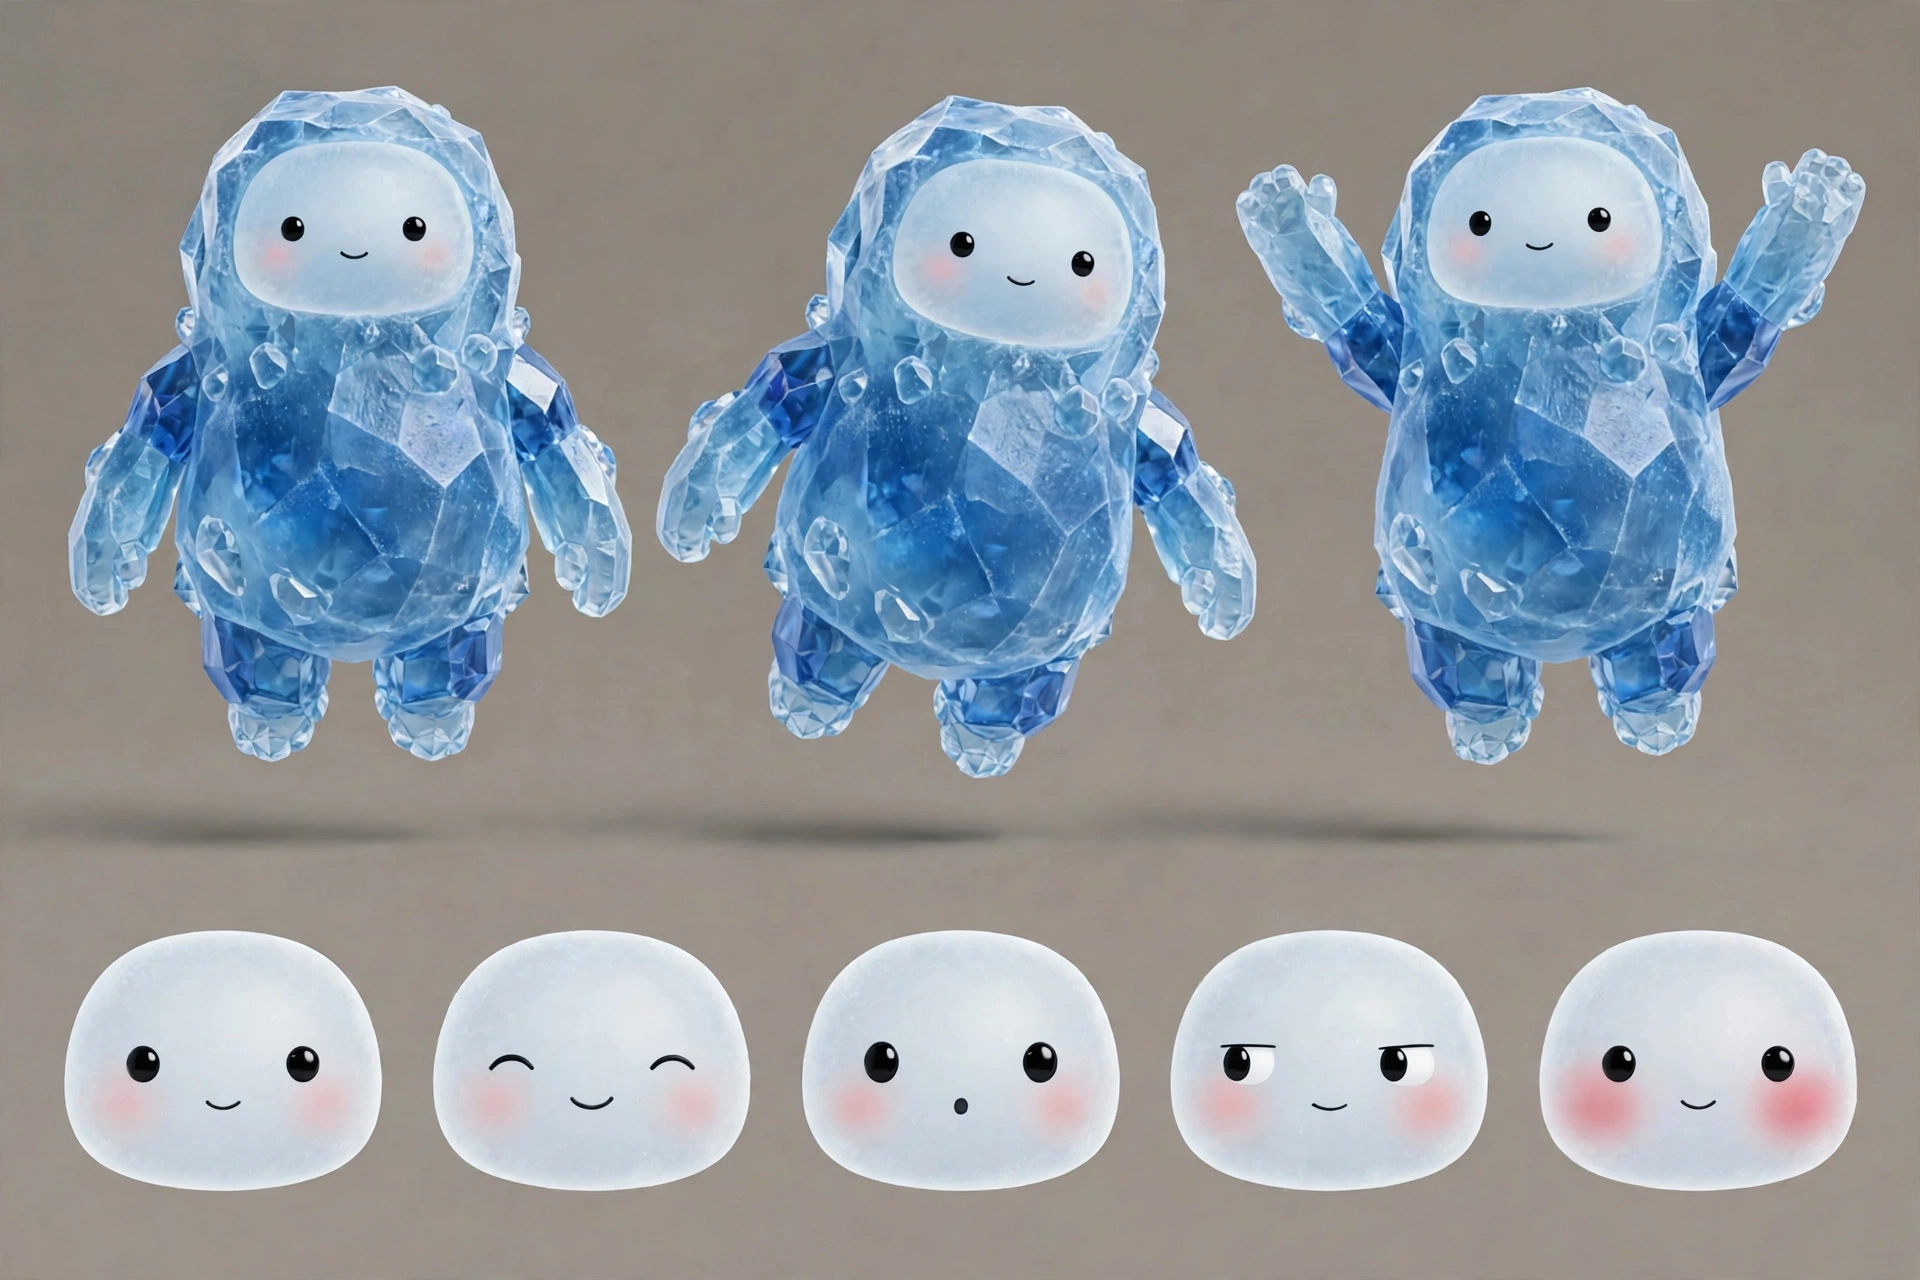
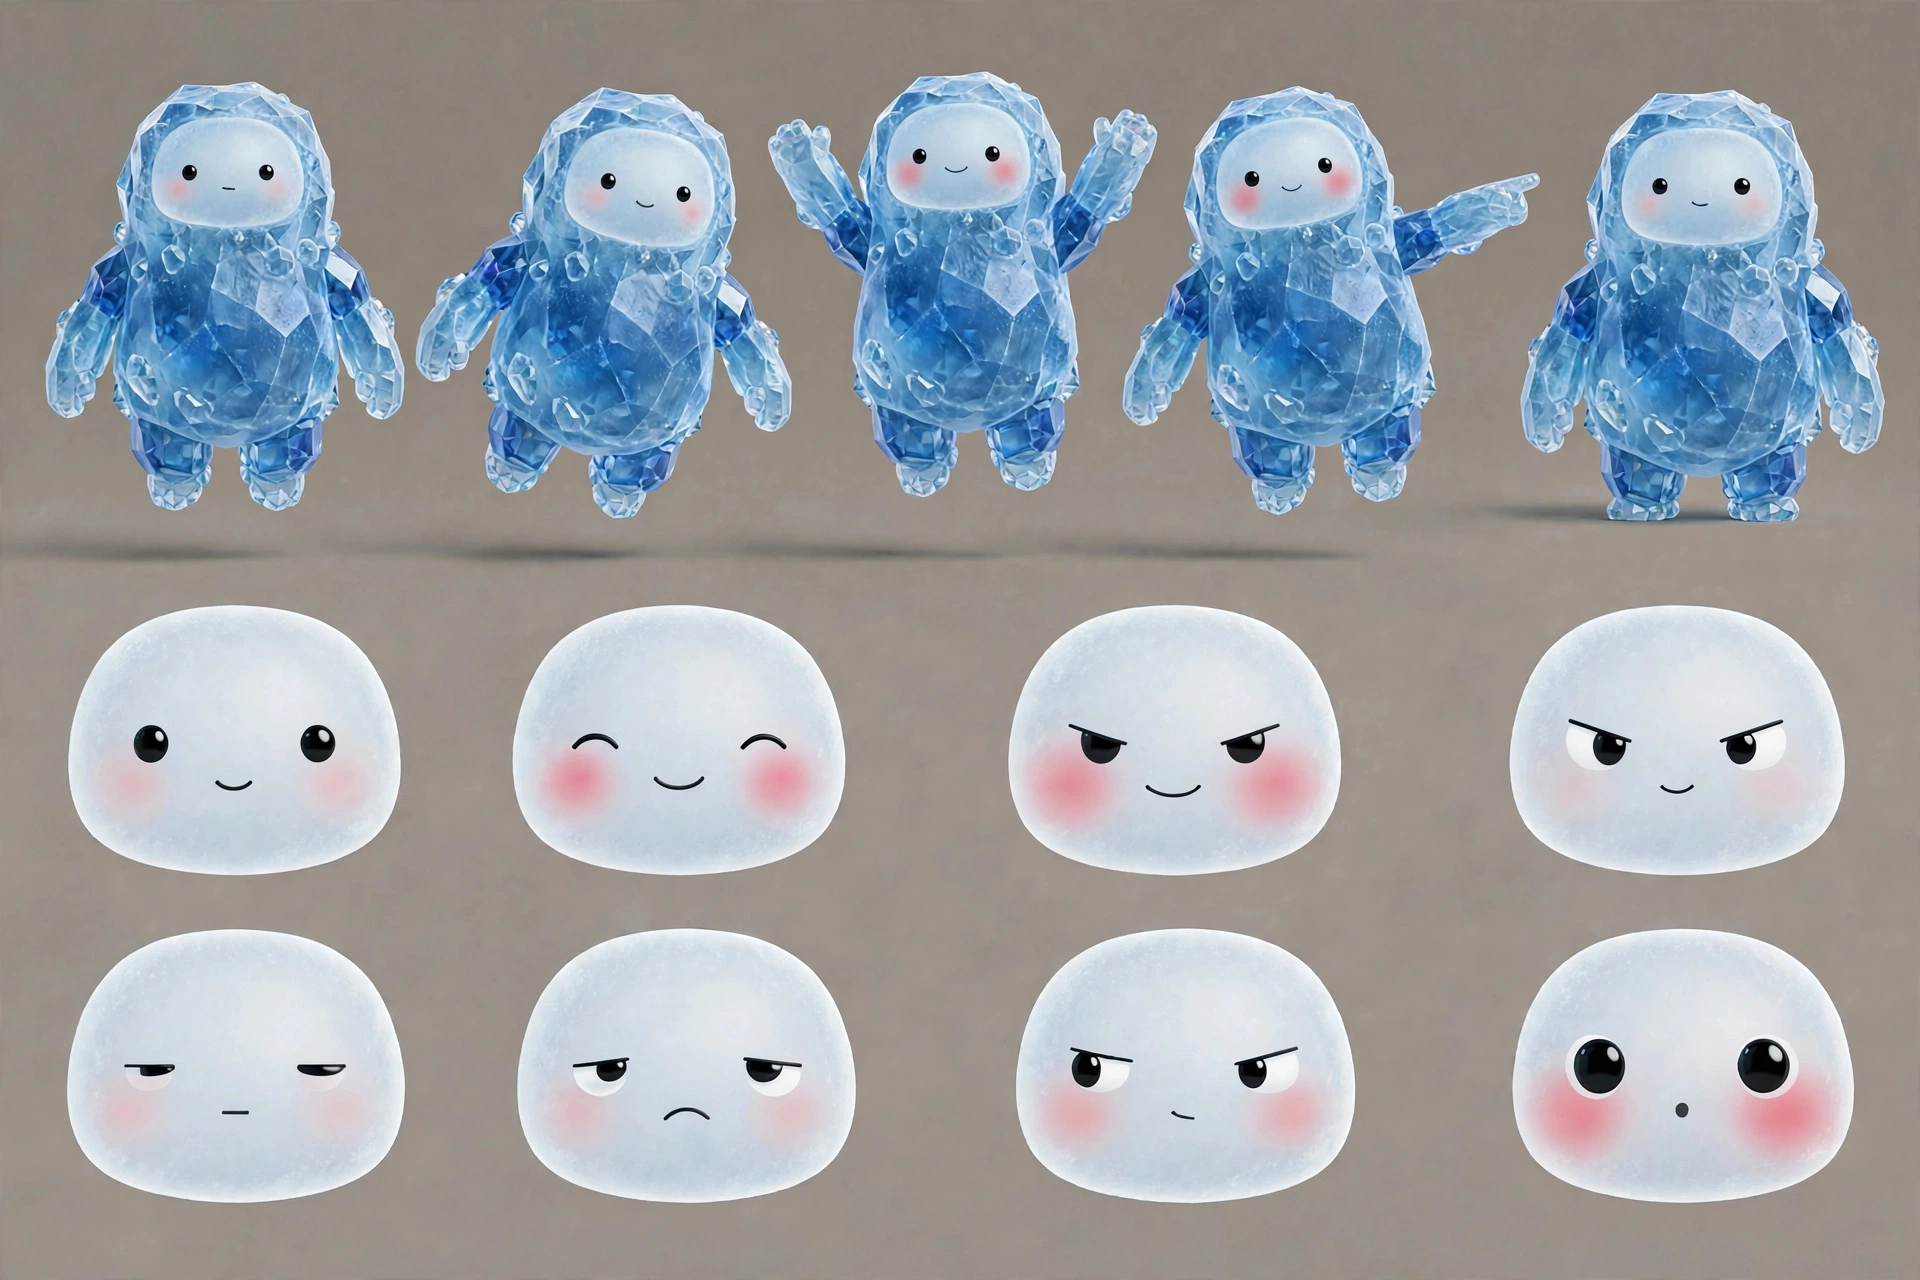
Emotion pass complete: all rig sheets at the canonical 8-expression set (Muse sheet regenerated; queue empty)

diff --git a/goat-hoopers/cameo-library/designs/blender/rig-sheets/EMOTION-AUDIT.md b/goat-hoopers/cameo-library/designs/blender/rig-sheets/EMOTION-AUDIT.md
@@ -17,6 +17,13 @@ on Kearns' original sheet.
 |---|---|---|
 | `rig-kearns.png` | "Volcano" set: Angry at ~9–10/10 (grimace, bared teeth) + a full scream in the point pose; no distinct Celebrating, Dejected or Menacing | All 8 canonical close-ups in order; Angry is closed-mouth annoyed (~6/10); point pose is a cheerful point-laugh; plain cap and quarter-zip (no text/logos); medal, blue eyes, beard, cap-forwards locked in every panel. Minor note: bust close-ups crop at the collar, so the medal ribbon shows in the pose row only. Old sheet: `archive/rig-sheets/rig-kearns-v1-volcano.png`. A first regen attempt added cap/brand logos and a broken layout — rejected, at `archive/rig-sheets/rig-kearns-v2-rejected-logos-layout.png`. |
 | `rig-hiram-chef.png` | Stern in every panel; rage scream close-up ~9/10 + grimace ~8/10; no Celebrating, Dejected or Surprised | Stern DEFAULT kept (§3.9b) + all 8 canonical close-ups in order; Angry closed-mouth ~6/10; point pose is a firm stern point, no shout; toque/coat/apron plain, build unchanged. Minor note: close-ups crop the toque to its band (full toque in the pose row). Old sheet: `archive/rig-sheets/rig-hiram-chef-v1-hot-set.png`. |
+| `rig-aidan.png` | Pre-canonical template row; missing Fired Up, Dejected, Menacing, Surprised; an earlier same-day partial attempt collapsed the layout (archived) | All 8 canonical close-ups in order in a 4+4 block under the unchanged 5 poses; Angry closed-mouth ~6/10; glasses on in every panel, middle part locked; no text/logos. Old sheet: `archive/rig-sheets/rig-aidan-v1-five-expression.png`; partial attempt: `archive/rig-sheets/rig-aidan-v2-partial-five-panel.png`. |
+| `rig-phil.png` | Template row; missing Fired Up, Dejected, Menacing, Surprised | All 8 canonical close-ups in order; cap backwards and plain in every panel, capybara beside the neutral pose standing. First attempt of the completion pass produced a 15-panel grid (duplicated Neutral + sad) — rejected at `archive/rig-sheets/rig-phil-v2-rejected-fifteen-panel.png`; second attempt exact. Minor note: close-ups crop at the collar, so the sunglasses/wristband read in the pose row. Old sheet: `archive/rig-sheets/rig-phil-v1-pre-canonical.png`. |
+| `rig-vann.png` | Template row; missing Fired Up, Menacing, Surprised; Dejected weak (flat panel only) | All 8 canonical close-ups in order; Dejected is now a full sad panel; tight-curl dome and seated lean intact, clean-shaven. Minor note: faint chin shading on the Angry/Menacing close-ups reads as form shadow — re-check against the no-stubble rule at build time. Old sheet: `archive/rig-sheets/rig-vann-v1-pre-canonical.png`. |
+| `rig-tommy.png` | Template row; missing Fired Up, Dejected, Menacing, Surprised | All 8 canonical close-ups in order; puffer blocking exact, flat leprechaun patch (shapes only, no lettering), gold can in the neutral pose. Took four attempts in the completion pass — three layout failures archived (`rig-tommy-v2-rejected-collapsed-row.png`, `rig-tommy-v3-rejected-fourteen-panel.png`, `rig-tommy-v4-rejected-fourteen-panel.png`); the passing attempt anchored the layout on the Kearns PASS sheet as a grid template. Old sheet: `archive/rig-sheets/rig-tommy-v1-pre-canonical.png`. |
+| `rig-griffin.png` | Template row + Dejected; missing Fired Up, Menacing, Surprised (closest of the queued sheets) | All 8 canonical close-ups in order; slumped couch sit kept; Oxford, chinos and tight curls locked; no graduation items anywhere. Old sheet: `archive/rig-sheets/rig-griffin-v1-pre-canonical.png`. |
+| `rig-tyrese.png` | Template row; missing Fired Up, Dejected, Menacing, Surprised; Angry hottest of the template set (~7–8) | All 8 canonical close-ups in order; Angry pulled down to the ~6 cap, closed mouth; stripes + cross locked (cross visible in all 5 poses; close-ups crop at the collar). Completion pass: attempt 1 collapsed to one row of 5 — archived as `archive/rig-sheets/rig-tyrese-v2-rejected-collapsed-row.png`; attempt 2's output file was lost by the generation pipeline (reported path never written to disk); attempt 3, anchored on the Kearns PASS layout, is exact. Old sheet: `archive/rig-sheets/rig-tyrese-v1-pre-canonical.png`. |
+| `rig-muse.png` | Five-state sheet: Neutral, Celebrating, Surprised, Deadpan present; Fired Up, Angry, Dejected missing; Menacing not distinct from the skeptical panel | All 8 canonical close-ups in order, expressed only in the §3.1 plate language (bead-eye shapes, smile curve, blush — no mouth interior anywhere); 5 hover/bob poses on top (neutral hover, bobbing drift, arms-up, point, standing planted). Angry angled and closed-mouth at the ~6 cap. Re-dispatch pass: attempt 1 put small open mouths on two pose-row figures — rejected (mouth-interior ban), archived as `archive/rig-sheets/rig-muse-v2-rejected-open-mouths.png`; attempt 2 fixed only the mouths and is exact. Minor note: the Menacing plate keeps a faint blush where the prompt asked for none — the slanted side-glance carries the read. Old sheet: `archive/rig-sheets/rig-muse-v1-five-state.png`. |
 
 ## Substantially conforms — left as-is
 
@@ -25,24 +32,16 @@ on Kearns' original sheet.
 | `rig-hiram.png` | Neutral (teeth grin) ✓, Celebrating ✓ (laugh + wink variant), Deadpan ✓ (flat panel), Angry ✓ (~7/10 heavy glare, closed mouth — at-cap side), Menacing ✓ (the same heavy-brow glare panel doubles), Fired Up ~partial (fist-pump point pose) | Missing: Dejected, Surprised. Closest sheet in the cast; the two gaps are noted for the build-time re-render rather than a design regen. |
 | `rig-lord-lax.png` | CONFORMS BY DESIGN. No face — ever (§3.10 hard lock). The bottom row is helmet states (level / down / whisper lean / up / shrug) and emotion plays through helmet tilt + body language: Neutral = level, Dejected = down-tilt, Surprised = up-tilt, Celebrating = fists-up state | Not a failure and not regenerated — drawing him a face would break the package's hardest lock. Expanding the helmet-state row is a possible future pass if Aidan wants it. |
 
-## Fails the canonical set — regeneration QUEUED
+## Regeneration queue — EMPTY
 
-All six human sheets below share the pre-canonical template row (Neutral / eyes-closed
-content / Celebrating laugh / Angry pout-scowl / Deadpan) and are missing the same
-emotions. None has a Kearns-style scream/grimace outlier; the template Angry is a
-closed-mouth scowl at ~6–7/10 (Tyrese's runs hottest, ~7–8 on brow angle).
+The completion pass (2026-11-10) regenerated all six human sheets from the original
+queue — Aidan, Phil, Vann, Tommy, Griffin, Tyrese — and the final re-dispatch the
+same day regenerated Muse, the last sheet in the queue. Every sheet in the cast is
+now resolved: nine regenerated to the canonical set (PASS table above), Hiram
+substantially conforming with two gaps noted for the build-time re-render, and Lord
+Lax conforming by design (helmet states, no face — ever). Nothing remains queued.
 
-| Sheet | Present | Missing | Status |
-|---|---|---|---|
-| `rig-aidan.png` | Neutral ✓, Celebrating ✓, Angry ✓ (~7 pout-scowl), Deadpan ✓ | Fired Up, Dejected, Menacing, Surprised | Regen attempted 2026-11-10: the generator collapsed the expression block into one row of 5 close-ups (Deadpan / Dejected / Angry / Menacing / Surprised — Angry correctly capped, glasses locked throughout), leaving Fired Up unshown and Neutral/Celebrating only in the pose row. Archived as a partial at `archive/rig-sheets/rig-aidan-v2-partial-five-panel.png`; the v1 sheet stays live and Aidan stays QUEUED. |
-| `rig-phil.png` | Neutral ✓ (unbothered half-smile), Celebrating ✓, Angry ✓ (~7), Deadpan ✓ | Fired Up, Dejected, Menacing, Surprised | QUEUED |
-| `rig-vann.png` | Neutral ✓ (smirk), Celebrating ✓, Angry ✓ (~6–7), Deadpan ✓ (half-lid translator face) | Fired Up, Menacing, Surprised; Dejected weak (flat panel only) | QUEUED |
-| `rig-tommy.png` | Neutral ✓, Celebrating ✓, Angry ✓ (~7), Deadpan ✓ | Fired Up, Dejected, Menacing, Surprised | QUEUED |
-| `rig-griffin.png` | Neutral ✓ (small sad smile), Celebrating ✓, Angry ✓ (~6–7), Deadpan ✓, Dejected ✓ (close-up + slumped sit — the only queued sheet that has it) | Fired Up, Menacing, Surprised | QUEUED — closest of the queued sheets |
-| `rig-tyrese.png` | Neutral ✓, Celebrating ✓, Angry ✓ (~7–8, hottest of the template set — brow angle; closed mouth), Deadpan ✓ | Fired Up, Dejected, Menacing, Surprised | QUEUED — regen should also pull Angry down to the ~6 cap |
-| `rig-muse.png` | Neutral ✓, Celebrating ✓ (happy arcs, arms-up pose, blush panel), Surprised ✓ (wide eyes, o-mouth), Deadpan ✓ (skeptical half-lid) | Fired Up, Angry, Dejected; Menacing not distinct from the skeptical panel | QUEUED — regen must anchor on the §3.1 avatar design (`../muse-identity-ref.png`): the set expressed only through bead eyes, smile curve and blush; no mouth interior, ever |
-
-## Regeneration recipe (for the queued sheets)
+## Regeneration recipe (the pattern used for every sheet above)
 
 Same pattern that produced the two PASS sheets: edit anchored on the existing sheet
 plus the character's canon render in `../final/` (STYLE LOCK — never a fresh generation

diff --git a/goat-hoopers/cameo-library/designs/blender/RIG-DESIGN.md b/goat-hoopers/cameo-library/designs/blender/RIG-DESIGN.md
@@ -136,7 +136,7 @@ outfit, proportions and style. All sheets live in `rig-sheets/`:
 
 | Sheet | Covers | Notes |
 |---|---|---|
-| `rig-sheets/rig-aidan.png` | Aidan | Glasses on in every view; canonical-set (§8) regen QUEUED — see EMOTION-AUDIT.md |
+| `rig-sheets/rig-aidan.png` | Aidan | Glasses on in every view; canonical emotion set (§8) — regenerated 2026-11-10, see EMOTION-AUDIT.md |
 | `rig-sheets/rig-kearns.png` | Kearns | Medal on in every view; canonical emotion set (§8), Angry capped ~6/10 — regenerated 2026-11-10, volcano set retired |
 | `rig-sheets/rig-phil.png` | Phil + capybara | Capybara beside him in the neutral pose (its mini-rig, §5) |
 | `rig-sheets/rig-vann.png` | Vann | Smirk default, deadpan translator face; seated lean = whisper-gag receiver |
@@ -146,7 +146,7 @@ outfit, proportions and style. All sheets live in `rig-sheets/`:
 | `rig-sheets/rig-hiram.png` | Hiram | Teeth-grin default preserved; flat expression is the rare variant |
 | `rig-sheets/rig-hiram-chef.png` | Chef Hiram | Stern DEFAULT (§3.9b) + full canonical emotion set (§8) — regenerated 2026-11-10; proportions in cast language |
 | `rig-sheets/rig-lord-lax.png` | Lord Lax | No expression row — bottom row is helmet states (level / down / whisper lean / up / shrug); cage interior black in every view, helmet never off |
-| `rig-sheets/rig-muse.png` | Muse | Hover poses + frosted-plate face states; no mouth interior, ever; canonical-set (§8) regen QUEUED — see EMOTION-AUDIT.md |
+| `rig-sheets/rig-muse.png` | Muse | Hover poses + frosted-plate face states; no mouth interior, ever; canonical emotion set (§8) — regenerated 2026-11-10, see EMOTION-AUDIT.md |
 | `rig-sheets/rig-skeleton.png` | Base armature | The §1 skeleton drawn over the canon Aidan render (COG, spine chain, arm/leg chains, jaw point, eye line) |
 
 Status: awaiting Aidan's review, like the rest of the design pass. Nothing here authorizes
@@ -154,6 +154,8 @@ building — the Mac build starts only after the design steps are approved.
 
 Emotion-set pass (2026-11-10, per §8): Kearns and Chef Hiram regenerated to the canonical
 set and verified panel by panel; Hiram substantially conforms (two gaps noted); Lord Lax
-conforms by design (helmet states, no face — ever). Aidan, Phil, Vann, Tommy, Griffin,
-Tyrese and Muse still carry the pre-canonical 5-expression rows and are queued for the
-same regeneration — full per-sheet verdicts in `rig-sheets/EMOTION-AUDIT.md`.
+conforms by design (helmet states, no face — ever). Completion pass (2026-11-10): Aidan,
+Phil, Vann, Tommy, Griffin and Tyrese regenerated to the canonical set the same way and
+verified panel by panel. Final re-dispatch (2026-11-10): Muse regenerated to the
+canonical set the same way and verified panel by panel — the emotion queue is now
+empty (`rig-sheets/EMOTION-AUDIT.md` carries the full per-sheet verdicts).
